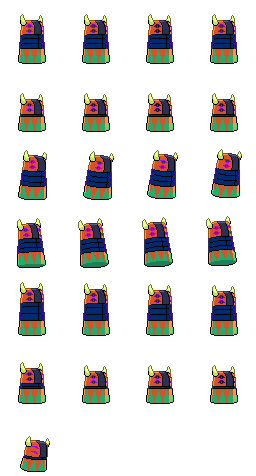
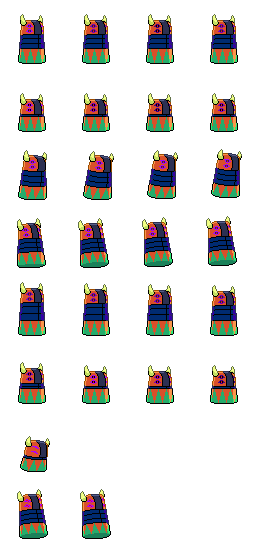
Add wide character sprite and refactor player handling for multiplayer support

diff --git a/functions/players/main.py b/functions/players/main.py
@@ -19,24 +19,28 @@ class Player:
         self.player = player
         self.health = health
         self.direction = direction
-        
+        self.attackdamage = 10  # Damage for normal attack (single hit)
+        self.crouch_attackdamage = 2  # Damage per frame for crouch attack (continuous)
+
         # Animation settings
         self.size = 64
         self.image_scale = 2
         self.offset = (19.2, 20)
-        self.sprite_sheet = py.image.load("assets/images/character.png").convert_alpha()
-        self.animation_steps = [4, 4, 4, 4, 4, 4, 1]
-        self.animation_list = self.load_images()
-        
-        # Action states
-        self.action = 0  # 0: idle, 1: crouch, 2: walk, 3: walkback, 4: jump, 5: jumpsquat, 6: blockstun
+        sprite_sheet = py.image.load("assets/images/character.png").convert_alpha()
+        sprite_sheet_wide = py.image.load("assets/images/character_wide.png").convert_alpha()
+        animation_steps = [4, 4, 4, 4, 4, 4, 1, 2]  # 0: idle, 1: crouch, 2: walk, 3: walkback, 4: jump, 5: jumpsquat, 6: blockstun, 7: hit_stun
+        animation_steps_wide = [9, 9, 9]  # 8: attack, 9: crouch_attack, 10: air_attack
+        self.animation_list = self.load_images(sprite_sheet, animation_steps)
+        self.animation_list.extend(self.load_images(sprite_sheet_wide, animation_steps_wide))
+        self.action = 0  # 0: idle, 1: crouch, 2: walk, 3: walkback, 4: jump, 5: jumpsquat, 6: blockstun, 7: hit_stun, 8: attack, 9: crouch_attack, 10: air_attack
         self.frame_index = 0
         self.image = self.animation_list[self.action][self.frame_index]
         self.update_time = py.time.get_ticks()
-        
+
         # Physics and state
         self.is_sitting = False
-        self.hurtbox = py.Rect(self.x, self.y, 27.5*2, 43.5*2)
+        self.hurtbox = py.Rect(self.x, self.y, 27.5 * 2, 43.5 * 2)
+        self.hitbox = None
         self.framespeed = [12, 9]
         self.jumppower = -60
         self.jumpsquatting = False
@@ -44,85 +48,93 @@ class Player:
         self.on_ground = False
         self.v_x = 0
         self.v_y = 0
+        self.is_attacking = False
+        self.forward_crouch = False
+        self.hit_stunned = False
+        self.block_stunned = False
+        self.block_count = 0
+        self.block_meter = 0
+        self.guard_broken = False
 
-    def load_images(self):
+    def load_images(self, sprite_sheet, animation_steps):
         animation_list = []
-        frame_height = self.sprite_sheet.get_height() // len(self.animation_steps)
-        
-        for y, steps in enumerate(self.animation_steps):
+        frame_height = sprite_sheet.get_height() // len(animation_steps)
+        for y, steps in enumerate(animation_steps):
             temp_img_list = []
-            frame_width = self.sprite_sheet.get_width() // steps
-            
+            frame_width = sprite_sheet.get_width() // steps
             for x in range(steps):
-                temp_img = self.sprite_sheet.subsurface(
-                    x * frame_width, 
-                    y * frame_height, 
-                    frame_width, 
-                    frame_height
-                )
-                temp_img = py.transform.scale(
-                    temp_img,
-                    (frame_width * self.image_scale, frame_height * self.image_scale)
-                )
+                temp_img = sprite_sheet.subsurface(x * frame_width, y * frame_height, frame_width, frame_height)
+                temp_img = py.transform.scale(temp_img, (frame_width * self.image_scale, frame_height * self.image_scale))
                 temp_img_list.append(temp_img)
-                
             animation_list.append(temp_img_list)
         return animation_list
 
-    def handle_input(self, screen):
-        width_limit = (0, screen.get_width() - 27.5*2)
-        height_limit = (0, screen.get_height() - 43.5*2)
+    def handle_input(self, screen, opponent=None):
+        width_limit = (0, screen.get_width() - 27.5 * 2)
+        height_limit = (0, screen.get_height() - 43.5 * 2)
         
-        # Get key input based on player number
         key = py.key.get_pressed()
         if self.player == 1:
             lpress, rpress = key[py.K_LEFT], key[py.K_RIGHT]
             upress, dpress = key[py.K_UP], key[py.K_DOWN]
+            attack_press = key[py.K_RETURN]
         else:
             lpress, rpress = key[py.K_a], key[py.K_d]
             upress, dpress = key[py.K_w], key[py.K_s]
+            attack_press = key[py.K_SPACE]
+
+        # Handle attacks
+        if (attack_press and not self.is_attacking and not self.hit_stunned and not self.block_stunned):
+            if self.is_sitting:
+                self.is_attacking = True
+                self.forward_crouch = rpress if self.direction == 1 else lpress
+                self.update_action(9)
+            elif self.on_ground:
+                self.is_attacking = True
+                self.update_action(8)
+
+        # Handle movement
         
-        # Handle horizontal movement
-        self.v_x = 0
-        if lpress and not rpress and not self.is_sitting and not self.jumpsquatting:
-            self.v_x = -SPEED
-            if self.on_ground:
-                self.update_action(3 if self.direction == 1 else 2)
-        elif rpress and not lpress and not self.is_sitting and not self.jumpsquatting:
-            self.v_x = SPEED
-            if self.on_ground:
-                self.update_action(2 if self.direction == 1 else 3)
-        elif self.on_ground and not self.is_sitting and not self.jumpsquatting:
-            self.update_action(0)  # idle
+       # if self.hit_stunned==False: self.v_x = 0
 
-        # Handle crouching
-        self.is_sitting = dpress and not upress and self.on_ground and not self.jumpsquatting
-        if self.is_sitting:
-            self.v_x = 0
-            self.update_action(1)
+        if not self.is_attacking and not self.hit_stunned and not self.block_stunned:
+            self.v_x=0
+            if lpress and not rpress and not self.is_sitting and not self.jumpsquatting:
+                self.v_x = -SPEED
+                if self.on_ground:
+                    self.update_action(3 if self.direction == 1 else 2)
+            elif rpress and not lpress and not self.is_sitting and not self.jumpsquatting:
+                self.v_x = SPEED
+                if self.on_ground:
+                    self.update_action(2 if self.direction == 1 else 3)
+            elif self.on_ground and not self.is_sitting and not self.jumpsquatting:
+                self.update_action(0)
 
-        # Handle jumping
-        if upress and not dpress and self.on_ground and not self.jumpsquatting and not self.is_sitting:
-            self.jumpsquatting = True
-            self.jumpsquatframes = 0
-            self.update_action(5)
+            if not self.guard_broken:
+                self.is_sitting = dpress and not upress and self.on_ground and not self.jumpsquatting
+                if self.is_sitting:
+                    self.v_x = 0
+                    self.update_action(1)
+            else:
+                self.is_sitting = False
 
-        # Process jumpsquat
+            if upress and not dpress and self.on_ground and not self.jumpsquatting and not self.is_sitting:
+                self.jumpsquatting = True
+                self.jumpsquatframes = 0
+                self.update_action(5)
+
         if self.jumpsquatting:
             self.jumpsquatframes += 1
-            if self.jumpsquatframes >= 6:  # frame count for jumpsquat
+            if self.jumpsquatframes >= 6:
                 self.jump()
-                
-        # Apply physics
+
         self.v_y += GRAVITY
         self.y += self.v_y
         self.x += self.v_x
 
-        # Apply position constraints
         self.x = max(width_limit[0], min(self.x, width_limit[1]))
         if self.x == width_limit[0] or self.x == width_limit[1]:
             self.v_x = 0
-            
         if self.y >= height_limit[1]:
             self.y = height_limit[1]
             self.v_y = 0
@@ -144,11 +156,37 @@ class Player:
             self.update_time = py.time.get_ticks()
 
     def update_animation(self):
-        animation_cooldown = 1000 // self.framespeed[0] 
-        
+        animation_cooldown = 1000 // self.framespeed[0]
         if py.time.get_ticks() - self.update_time > animation_cooldown:
-            self.frame_index = (self.frame_index + 1) % len(self.animation_list[self.action])
+            self.frame_index += 1
+            if self.frame_index >= len(self.animation_list[self.action]):
+                self.frame_index = 0
+                if self.action in (8, 9):
+                    self.is_attacking = False
+                    self.hitbox = None
+                    self.forward_crouch = False
+                    self.update_action(1 if self.is_sitting else 0)
+                elif self.action == 7:
+                    self.hit_stunned = False
+                    self.update_action(0)
+                elif self.action == 6:
+                    self.block_stunned = False
+                    self.update_action(0)
             self.update_time = py.time.get_ticks()
+
+            hitbox_width, hitbox_height = 40, 20
+            if self.action == 8 and self.frame_index == 5:
+                if self.direction == 1:
+                    self.hitbox = py.Rect(self.hurtbox.right, self.hurtbox.centery - hitbox_height // 2, hitbox_width, hitbox_height)
+                else:
+                    self.hitbox = py.Rect(self.hurtbox.left - hitbox_width, self.hurtbox.centery - hitbox_height // 2, hitbox_width, hitbox_height)
+            elif self.action == 9:
+                if self.direction == 1:
+                    self.hitbox = py.Rect(self.hurtbox.right, self.hurtbox.bottom - hitbox_height, hitbox_width, hitbox_height)
+                else:
+                    self.hitbox = py.Rect(self.hurtbox.left - hitbox_width, self.hurtbox.bottom - hitbox_height, hitbox_width, hitbox_height)
+                if self.forward_crouch:
+                    self.v_x = 5 * self.direction
 
         self.image = self.animation_list[self.action][self.frame_index]
 
@@ -156,13 +194,46 @@ class Player:
         self.hurtbox.x, self.hurtbox.y = self.x, self.y
 
     def draw(self, screen: py.Surface):
+        flipped_image = py.transform.flip(self.image, True, False) if self.direction == -1 else self.image
         screen.blit(
-            self.image,
+            flipped_image,
             (self.x - self.offset[0] * self.image_scale, 
              self.y - self.offset[1] * self.image_scale)
         )
         py.draw.rect(screen, (255, 0, 0), self.hurtbox, 2)
+        if self.hitbox:
+            py.draw.rect(screen, (0, 255, 0), self.hitbox, 2)
 
-    def update(self, screen: py.Surface):
+    def update(self, screen: py.Surface, opponent=None):
         self.update_hurtbox()
         self.update_animation()
+        if self.is_attacking and self.hitbox and opponent and self.hitbox.colliderect(opponent.hurtbox):
+            if self.action == 8 and self.frame_index == 5:
+                self.handle_collision(opponent)
+            elif self.action == 9:
+                self.handle_collision(opponent)
+
+    def handle_collision(self, opponent):
+        if opponent.is_sitting and opponent.action != 9:
+            opponent.block_stun(self.direction)
+        else:
+            opponent.hit_stun(self.direction)
+            opponent.health -= (self.crouch_attackdamage if self.action == 9 else self.attackdamage)
+
+    def hit_stun(self, attack_direction):
+        self.hit_stunned = True
+        self.v_x = 20 * attack_direction
+        self.update_action(7)
+        self.block_count = 0
+        self.block_meter = max(0, self.block_meter - 10)
+
+    def block_stun(self, attack_direction):
+        self.block_stunned = True
+        self.v_x = 10 * attack_direction
+        self.update_action(6)
+        self.block_count += 1
+        self.block_meter = min(100, self.block_meter + 20)
+        if self.block_meter >= 100:
+            self.guard_broken = True
+            self.is_sitting = False
+            self.update_action(0)

diff --git a/functions/screens/game.py b/functions/screens/game.py
@@ -53,7 +53,7 @@ class GameScene(Base):
                 player.direction,
                 player.health
             )
-            for player in self.player
+            for player in self.players
         ]
         super().start(PauseScene)
 
@@ -69,16 +69,21 @@ class GameScene(Base):
         super().update()
         self.clock.tick(60)
         fps = self.clock.get_fps()
-        self.screen.fill((255,255,255))
-        for player in self.players:
-            player.handle_input(self.screen.surface)
-            player.update(self.screen.surface)
-            player.draw(self.screen.surface)
-        # AfterBurner
-        self.screen.get_AfterBurner()
-
-        # Update ground
+        self.screen.fill((255, 255, 255))
+        if self.players[0].x < self.players[1].x:
+            self.players[0].direction = 1
+            self.players[1].direction = -1
+        else:
+            self.players[0].direction = -1
+            self.players[1].direction = 1
         
+        self.players[0].handle_input(self.screen.surface, self.players[1])
+        self.players[1].handle_input(self.screen.surface, self.players[0])
+        self.players[0].update(self.screen.surface, self.players[1])
+        self.players[1].update(self.screen.surface, self.players[0])
+        for player in self.players:
+            player.draw(self.screen.surface)
+        self.screen.get_AfterBurner()
 
     def render(self):
         super().render()
